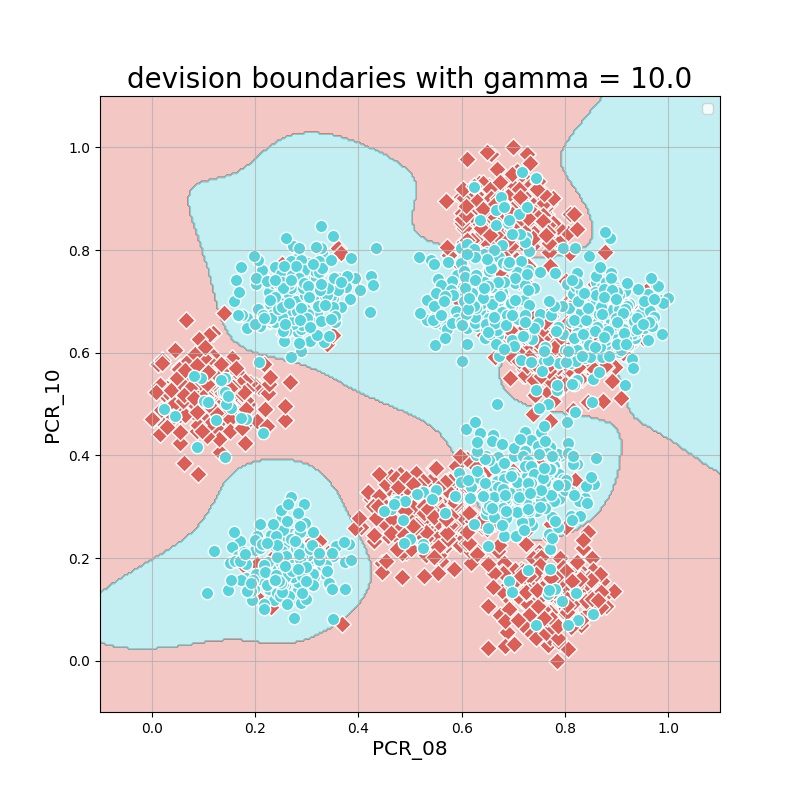
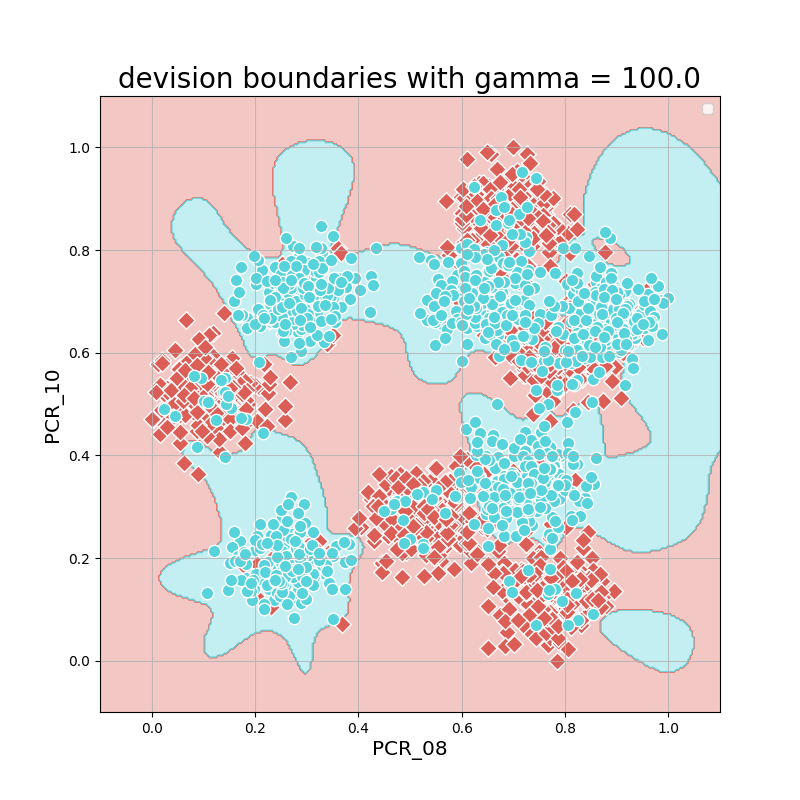
part 4 finished

diff --git a/Classifiers/part_4/part_4.py b/Classifiers/part_4/part_4.py
@@ -6,27 +6,103 @@ sys.path.insert(0, 'C:/Users/alonz/Documents/GitHub/Intorduction-to-ML/Classifie
 import functions as f 
 from visualize_clf import visualize_clf 
 import numpy as np
-import matplotlib as plt
+import matplotlib.pyplot as plt
+from sklearn.preprocessing import PolynomialFeatures
+from sklearn.pipeline import Pipeline
+from sklearn.model_selection import train_test_split
+from sklearn.model_selection import KFold
+from sklearn.model_selection import cross_validate
+from sklearn.model_selection import GridSearchCV
+import seaborn as sns
 
 
+#prepeations
 fixed_C = 1e4
-
-##data
-
 train_data= pd.read_csv("part_4_train_data.csv")
 test_data= pd.read_csv("part_4_test_data.csv") 
-
 # f.plot_data(train_data,x_label = 'PCR_08',y_label = 'PCR_10', hue = 'risk', title ="title")
-
 X_train = train_data[['PCR_08','PCR_10']]
 y_train = train_data['risk']
 X_test = test_data[['PCR_08','PCR_10']]
 y_test = test_data['risk']
 
+def find_optimal_gamma():
 
-gamma_range  = np.logspace(-5, 4, 10)
+    gamma_range  = np.logspace(-5, 4, 10)
+    for gamma in gamma_range:
+        rbf_svc = SVC(kernel='rbf', C = fixed_C , gamma = gamma)
+        rbf_svc.fit(X_train, y_train)
+        visualize_clf(rbf_svc , X_train.to_numpy(), y_train.to_numpy(), "devision boundaries with gamma = " +str(gamma), xlabel = 'PCR_08',ylabel = 'PCR_10')
 
-for gamma in gamma_range:
-    rbf_svc = SVC(kernel='rbf', C = fixed_C , gamma = gamma)
-    rbf_svc.fit(X_train, y_train)
-    visualize_clf(rbf_svc , X_train.to_numpy(), y_train.to_numpy(), "devision boundaries with gamma = " +str(gamma), xlabel = 'PCR_08',ylabel = 'PCR_10')
+
+def find1OptimalParam():
+
+    gamma_range  = np.arange(30,1000,step  = 10)
+    max = gamma_range[-1]
+    min = max
+    max_result = 0
+    all_scores = []
+
+    for gamma in gamma_range:
+        rbf_svc = SVC(kernel='rbf', C = gamma , gamma = gamma)
+        scores = cross_validate(rbf_svc, X_train, y_train, cv=2)
+        mean = scores['test_score'].mean()
+        print(mean, "for: ", gamma)
+        all_scores.append(mean)
+        if(mean > 0.7 and min == max):
+            min = gamma
+        if(mean > 0.9):
+            max_result = gamma
+            break
+    print("the requested range : (",min,",",max_result,")")
+    plt.plot(gamma_range, all_scores ) 
+    plt.title( "gamma parameter - searching optimal range")   
+    plt.xlabel("gamma value")
+    plt.ylabel("2-cv mean score")
+    plt.show()
+
+
+def find2OptimalParam():
+
+    C_min = 50
+    C_max = 150
+    gamma_min = 5
+    gamma_max = 10
+    rbf_clf = SVC(kernel='rbf')
+    clf = Pipeline(steps=[('clf', rbf_clf)])
+    C_range = np.arange(C_min, C_max, step = 5)
+    gamma_range = range(gamma_min, gamma_max)
+    parameters = dict(clf__C = C_range, clf__gamma = gamma_range)
+    clf_GS = GridSearchCV(clf, parameters, cv=8, return_train_score=True)
+    clf_GS.fit(X_train, y_train)
+    print('Best C:', clf_GS.best_estimator_.get_params()['clf__C'])
+    print('Best gamma:', clf_GS.best_estimator_.get_params()['clf__gamma'])
+
+    mean_scores = clf_GS.cv_results_['mean_test_score']
+    mean_scores = np.array(mean_scores).reshape(len(C_range),len(gamma_range))
+    fig, ax = plt.subplots(figsize=(len(C_range),len(gamma_range)))
+    ax = sns.heatmap(data= mean_scores, cbar = True, xticklabels = list(gamma_range),yticklabels = list(C_range) )
+    ax.set(xlabel='gamma values', ylabel='C values', title='Mean validation accuracy')
+
+    fig2, ax2 = plt.subplots(figsize=(12,12))
+    mean_train_scores = clf_GS.cv_results_['mean_train_score']
+    mean_train_scores = np.array(mean_train_scores).reshape(len(C_range),len(gamma_range))
+    ax2 = sns.heatmap(data= mean_train_scores, cbar = True, xticklabels = list(gamma_range),yticklabels = list(C_range))
+    ax2.set(xlabel='gamma values', ylabel='C values', title='Mean training accuracy')
+
+    plt.show()
+
+
+# find2OptimalParam()
+
+
+
+
+rbf_clf = SVC(kernel='rbf', C = 70 , gamma = 8)
+rbf_clf.fit(X_train, y_train)
+visualize_clf(rbf_clf , X_train.to_numpy(), y_train.to_numpy(), "devision boundaries with optimal parameters, score is ", xlabel = 'PCR_08',ylabel = 'PCR_10')
+print(rbf_clf.score(X_test,y_test ))
+
+
+
+

diff --git a/Classifiers/part_3/functions.py b/Classifiers/part_3/functions.py
@@ -106,3 +106,6 @@ def train_and_test_tuned_C_svm_clf (X_train, y_train, X_test, y_test ,optimal_C 
     test_accuracy = svm_clf.score(X_test, y_test)
     print("the test accuracy is ", test_accuracy)
 
+
+    
+
